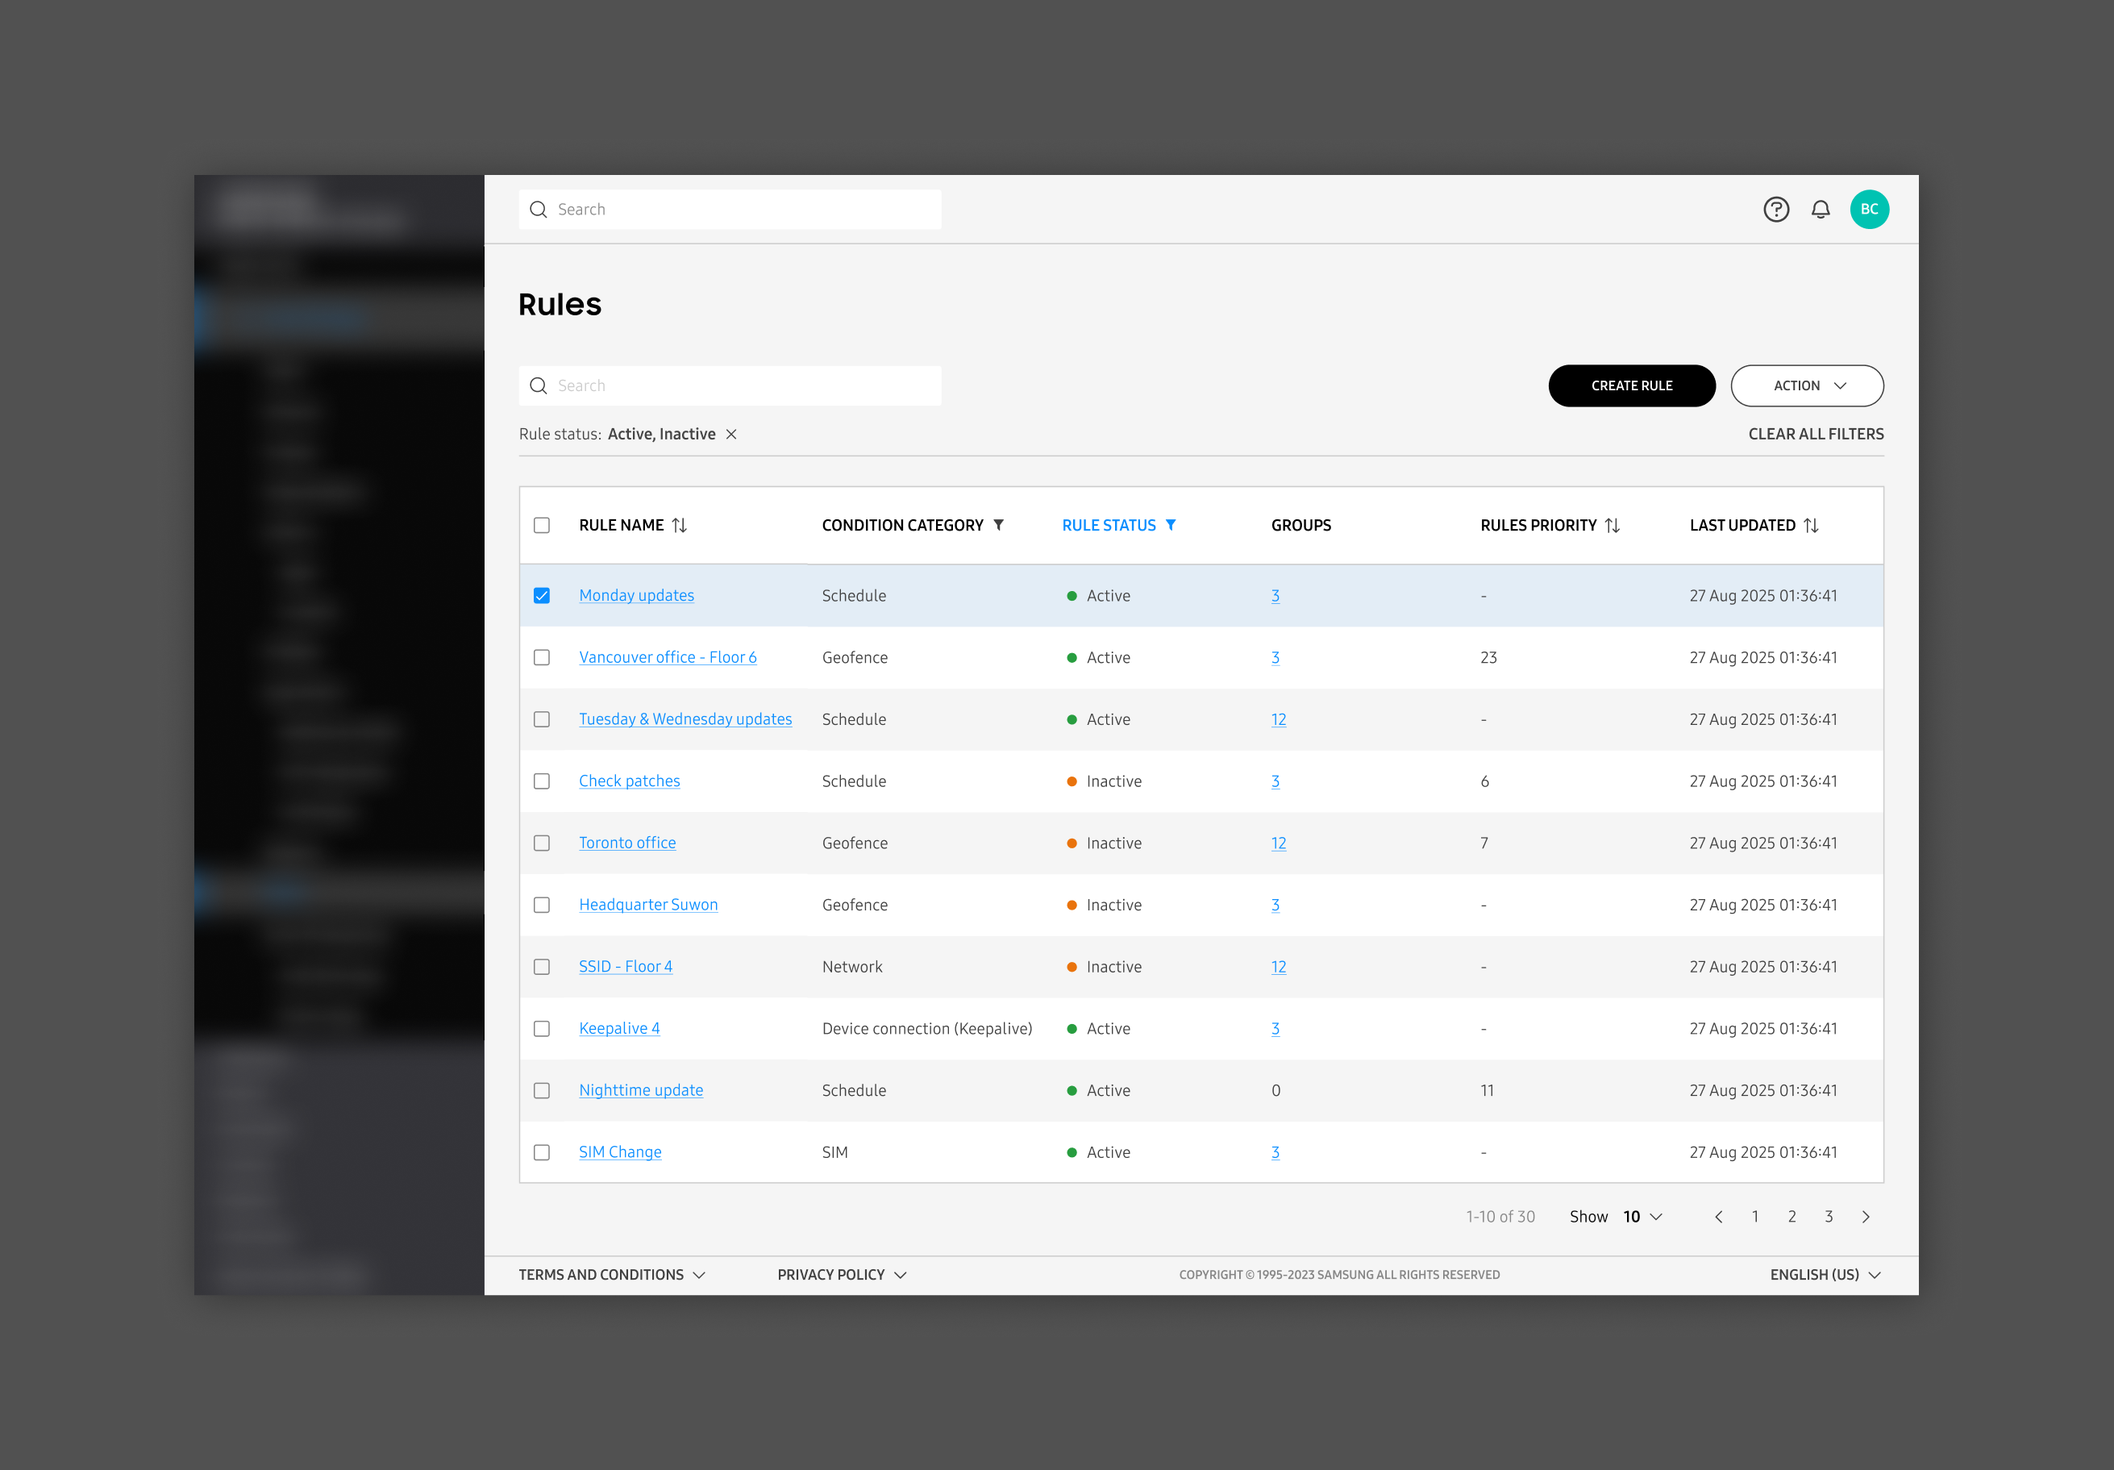
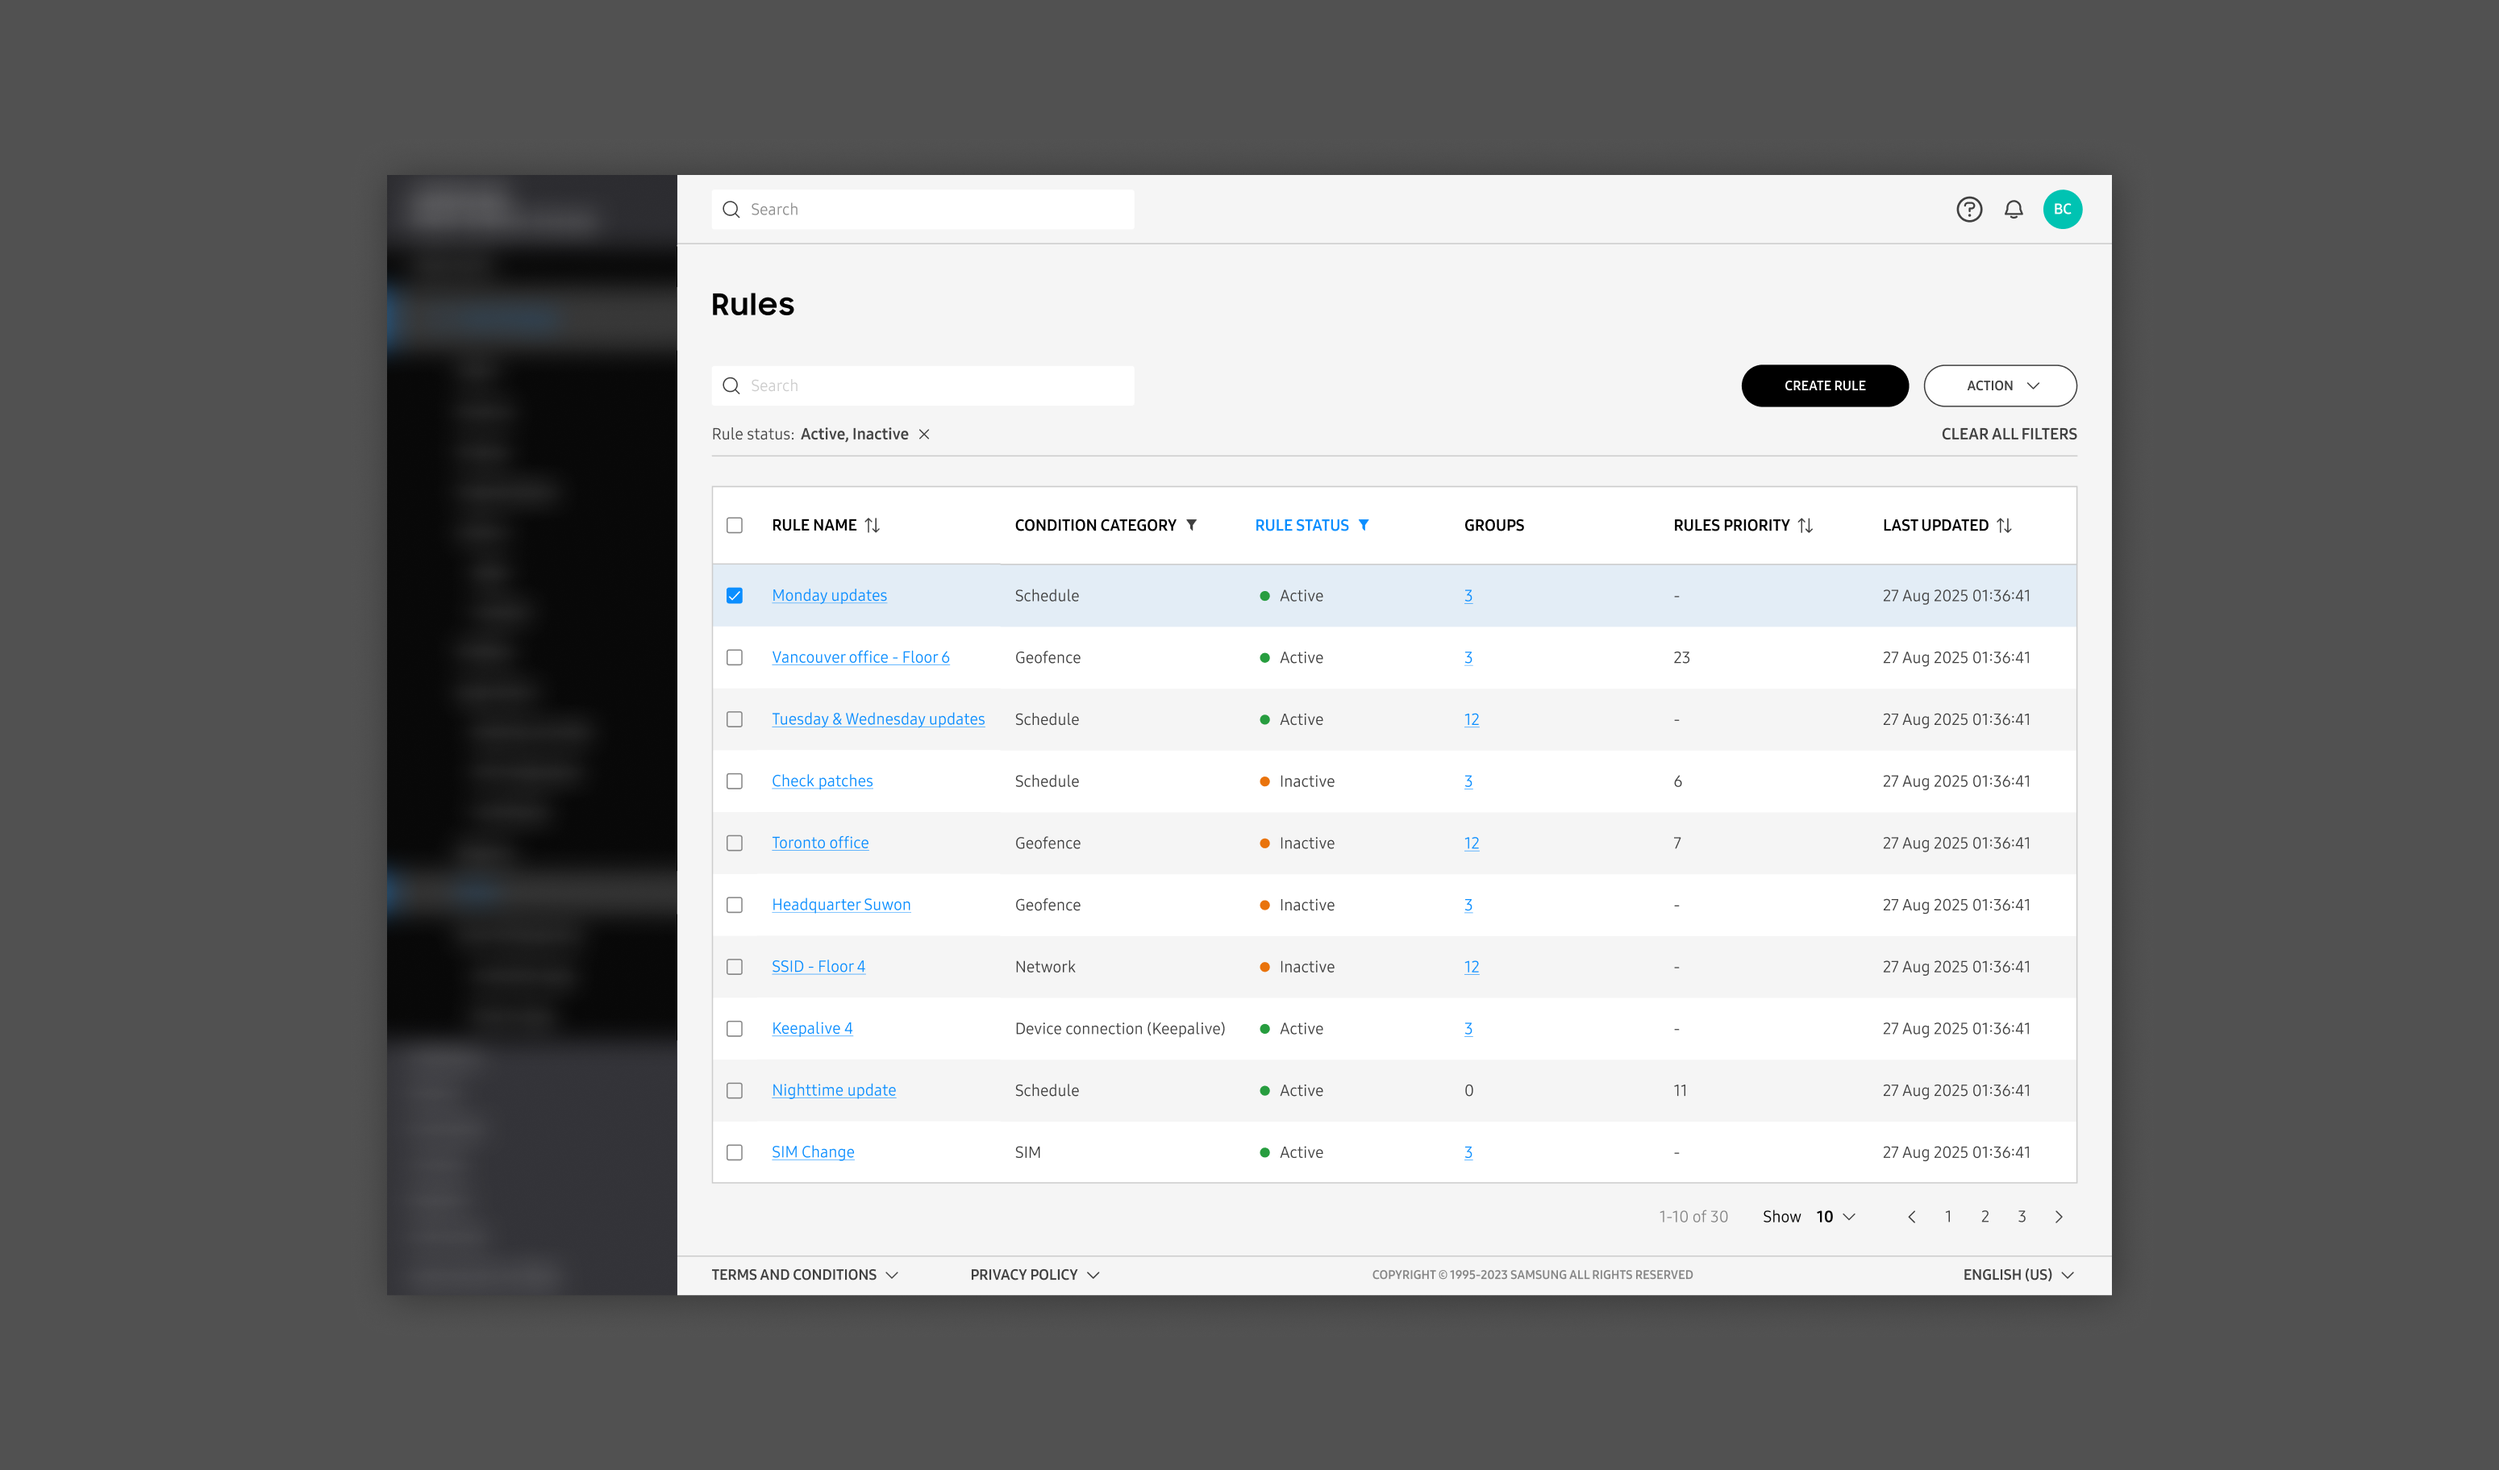
change image size

diff --git a/app/rules/page.tsx b/app/rules/page.tsx
@@ -33,16 +33,16 @@ export default function Rules() {
 
                 <Heading text="Selected deliverable 1"/>
                 <ImageZoom>
-                    <Image src="/rules-0.png" width={2622} height={1823} className="w-full h-auto mb-2 block dark:hidden" alt="Samsung Knox"/> 
+                    <Image src="/rules-0.png" width={3099} height={1823} className="w-full h-auto mb-2 block dark:hidden" alt="Samsung Knox"/> 
                 </ImageZoom>
                 <ImageZoom>
-                    <Image src="/rules-0-darkmode.png" width={2622} height={1823} className="w-full h-auto mb-2 hidden dark:block" alt="Samsung Knox"/> 
+                    <Image src="/rules-0-darkmode.png" width={3099} height={1823} className="w-full h-auto mb-2 hidden dark:block" alt="Samsung Knox"/> 
                 </ImageZoom>
                 <ImageZoom>
-                    <Image src="/rules-1.png" width={2622} height={1823} className="w-full h-auto mb-2 block dark:hidden" alt="Samsung Knox"/> 
+                    <Image src="/rules-1.png" width={3099} height={1823} className="w-full h-auto mb-2 block dark:hidden" alt="Samsung Knox"/> 
                 </ImageZoom>
                 <ImageZoom>
-                    <Image src="/rules-1-darkmode.png" width={2622} height={1823} className="w-full h-auto mb-2 hidden dark:block" alt="Samsung Knox"/> 
+                    <Image src="/rules-1-darkmode.png" width={3099} height={1823} className="w-full h-auto mb-2 hidden dark:block" alt="Samsung Knox"/> 
                 </ImageZoom>
                 <div className="mb-4"></div>
                 <p className="text-sm text-[var(--colour-bodytext)] leading-loose mb-2"><span className="font-semibold">Interface for viewing a rule&rsquo;s details</span>: Displaying crucial information an IT admin needs to know.</p>
@@ -53,16 +53,16 @@ export default function Rules() {
 
                 <Heading text="Selected deliverable 2"/>
                 <ImageZoom>
-                    <Image src="/rules-2.png" width={2622} height={3363} className="w-full h-auto mb-2 block dark:hidden" alt="Samsung Knox"/> 
+                    <Image src="/rules-2.png" width={3099} height={3363} className="w-full h-auto mb-2 block dark:hidden" alt="Samsung Knox"/> 
                 </ImageZoom>
                 <ImageZoom>
-                    <Image src="/rules-2-darkmode.png" width={2622} height={3363} className="w-full h-auto mb-2 hidden dark:block" alt="Samsung Knox"/> 
+                    <Image src="/rules-2-darkmode.png" width={3099} height={3363} className="w-full h-auto mb-2 hidden dark:block" alt="Samsung Knox"/> 
                 </ImageZoom>
                 <ImageZoom>
-                    <Image src="/rules-3.png" width={2622} height={3363} className="w-full h-auto mb-2 block dark:hidden" alt="Samsung Knox"/> 
+                    <Image src="/rules-3.png" width={3099} height={3363} className="w-full h-auto mb-2 block dark:hidden" alt="Samsung Knox"/> 
                 </ImageZoom>
                 <ImageZoom>
-                    <Image src="/rules-3-darkmode.png" width={2622} height={3363} className="w-full h-auto mb-2 hidden dark:block" alt="Samsung Knox"/> 
+                    <Image src="/rules-3-darkmode.png" width={3099} height={3363} className="w-full h-auto mb-2 hidden dark:block" alt="Samsung Knox"/> 
                 </ImageZoom>
                 {/* <ImageZoom>
                     <Image src="/rules-4.png" width={2622} height={2622} className="w-full h-auto mb-2 block dark:hidden" alt="Samsung Knox"/> 
